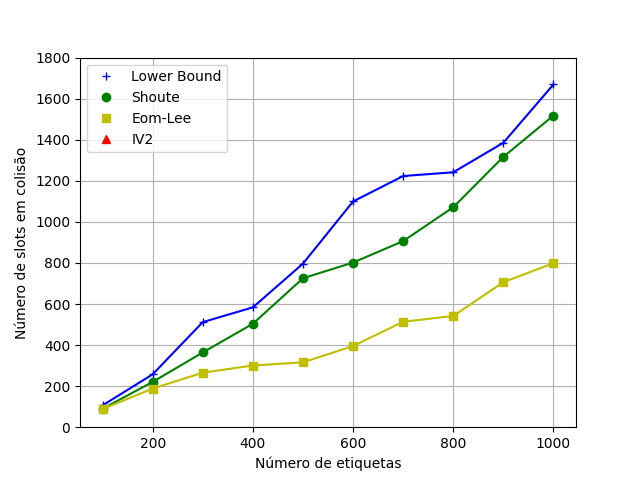
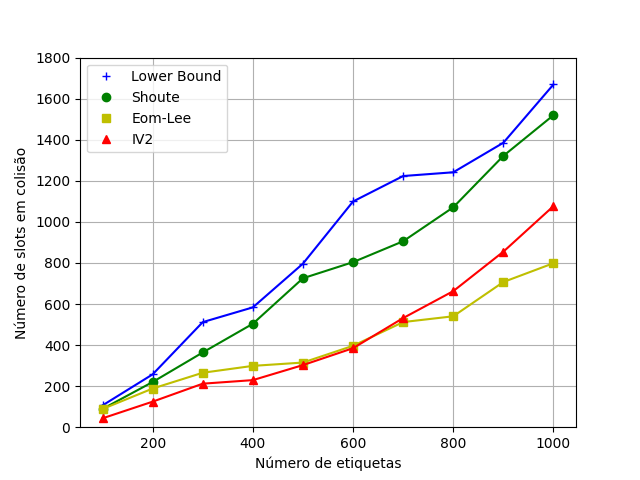
maybe iv2, maybe only vogt, very slow

diff --git a/simulador/src/Estimator.cpp b/simulador/src/Estimator.cpp
@@ -2,6 +2,7 @@
 #include <limits.h>
 #include <bits/stdc++.h>
 #include "Estimator.h"
+#include "Vec3.h"
 
 // Não é usado
 ull Estimator::next_frames(SlottedAlohaInfo &info) {
@@ -21,15 +22,70 @@ double abs(double k) {
 }
 
 ull EomLeeEstimator::next_frames(SlottedAlohaInfo &info) {
+
     double threshold = 5e-5;
     double L = static_cast<double>(info.used_frame);
     double gamma_k, gamma = 2, beta = std::numeric_limits<double>::max();
     do {
         gamma_k = gamma;
         beta = L / ((gamma_k * info.colisoes) + info.sucessos);
-        gamma = (1 - exp(-1.0/beta)) / (beta * (1 - (1 + 1.0/beta) * exp(-1.0/beta)) + 5e-10);
+        gamma = (1 - exp(-1.0/beta)) / (beta * (1 - (1 + 1.0/beta) * exp(-1.0/beta)));
     } while (abs(gamma - gamma_k) > threshold);
     return static_cast<ull>(ceil(gamma * info.colisoes));
+}
+
+double combinations(double n, double k) {
+    if (k > n) return 0;
+    if (k * 2 > n) k = n-k;
+    if (k == 0) return 1;
+    double result = n;
+    for( int i = 2; i <= k; ++i ) {
+        result *= (n-i+1);
+        result /= i;
+    }
+    return result;
+}
+
+double estimate_single(ull L, int r, double n) {
+    return L * combinations(n, r) * pow(1.0/L, r) * pow(1 - 1.0/L, n-r);
+}
+
+double calc_epsilon(SlottedAlohaInfo &info, double n) {
+    double a0 = estimate_single(info.used_frame, 0, n); // estimativa vazios
+    double a1 = estimate_single(info.used_frame, 1, n); // estimativa sucessos
+    double arest = 0; // estimativas colisões acumulada
+    for (int r = 2; r <= n; r++) {
+        arest += estimate_single(info.used_frame, r, n);
+    }
+    return (Vec3{a0, a1, arest} - Vec3{static_cast<double>(info.vazios), static_cast<double>(info.sucessos), static_cast<double>(info.colisoes)}).len();
+}
+
+ull next_frames_vogt(SlottedAlohaInfo &info) {
+    double high = 3e3, low = 2;
+    double threshold = 5e-5;
+    while (high - low > threshold) {
+        double nhigh = calc_epsilon(info , high);
+        double nlow = calc_epsilon(info, low);
+        double m = (high - low) / 2;
+        if (nhigh < nlow) low = low + m;
+        else high = high - m;
+    }
+    return static_cast<ull>(ceil(high));
+}
+
+ull IV2Estimator::next_frames(SlottedAlohaInfo &info) {
+    if (info.used_frame != info.colisoes) {
+        return next_frames_vogt(info);
+    }
+    double s;
+    if (info.used_frame <= 64) s = 100;
+    else if (info.used_frame > 64 && info.used_frame < 128) s = 1000;
+    else s = 10000;
+    double n;
+    if (s == 100) n = 6.851851850 * (info.used_frame - 1) +  2;
+    else if (s == 1000) n = 9.497497500 * (info.used_frame-1) + 2;
+    else if (s == 10000) n = 12.047047047 * (info.used_frame-1) + 2;
+    return static_cast<ull>(ceil(n));
 }
 
 std::string SlottedAlohaInfo::to_string() {

diff --git a/simulador/src/Vec3.h b/simulador/src/Vec3.h
@@ -1,0 +1,22 @@
+//
+// Created by vilma on 12/15/21.
+//
+
+#ifndef SIMULADOR_DFSA_VEC3_H
+#define SIMULADOR_DFSA_VEC3_H
+
+
+class Vec3 {
+public:
+    double x,y,z;
+    Vec3(double x, double y, double z): x{x}, y{x}, z{z} {}
+    inline Vec3 operator - (const Vec3 &b) const {
+        return Vec3 {x - b.x, y - b.y, z - b.z };
+    }
+    inline double len () {
+        return sqrt(x * x + y * y + z * z);
+    }
+};
+
+
+#endif //SIMULADOR_DFSA_VEC3_H

diff --git a/simulador/src/Estimator.h b/simulador/src/Estimator.h
@@ -34,9 +34,11 @@ class ShoutEstimator: public Estimator {
 
 class EomLeeEstimator : public Estimator {
     ull next_frames(SlottedAlohaInfo &info) override;
+
 };
 
-//class IV2Estimator : public Estimator {
-//    ull next_frames(SlottedAlohaInfo &info) override;
-//};
+
+class IV2Estimator : public Estimator {
+    ull next_frames(SlottedAlohaInfo &info) override;
+};
 #endif //SIMULADOR_ESTIMATOR_H

diff --git a/simulador/src/main.cpp b/simulador/src/main.cpp
@@ -16,8 +16,7 @@ Estimator* create_estimator(const string &estimatorName) {
     } else if (estimatorName == "eom-lee") {
         return new EomLeeEstimator();
     } else if (estimatorName == "iv2") {
-        cerr << endl << "IV2 NOT IMPLEMENTED. CONTINUING" << endl;
-        return NULL;
+        return new IV2Estimator();
     }
 }
 

diff --git a/simulador/src/config.h b/simulador/src/config.h
@@ -23,7 +23,7 @@ public:
         tag_increment = 100;
         no_power_of_2 = false;
         output_path = "results";
-        estimators = std::vector<std::string> {"lb", "shoute", "eom-lee", "iv2"};
+        estimators = std::vector<std::string> {"lb","iv2", "shoute", "eom-lee"};
     }
 
     std::string to_string();
